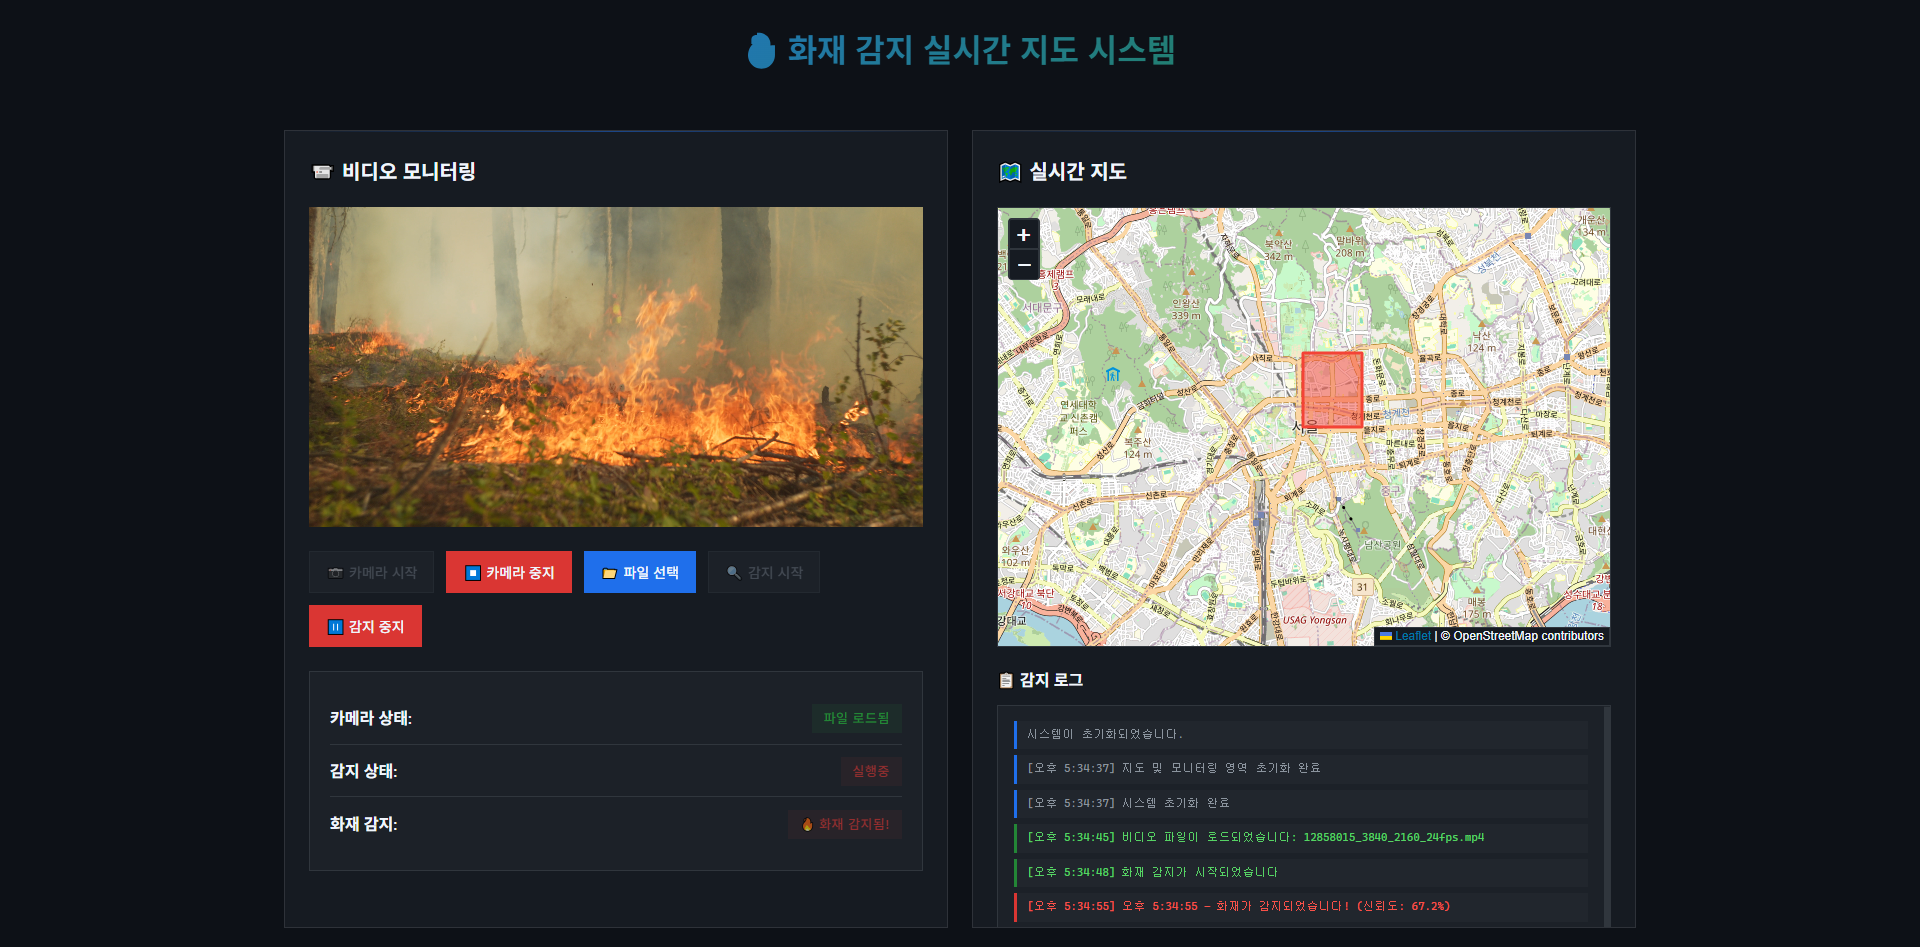
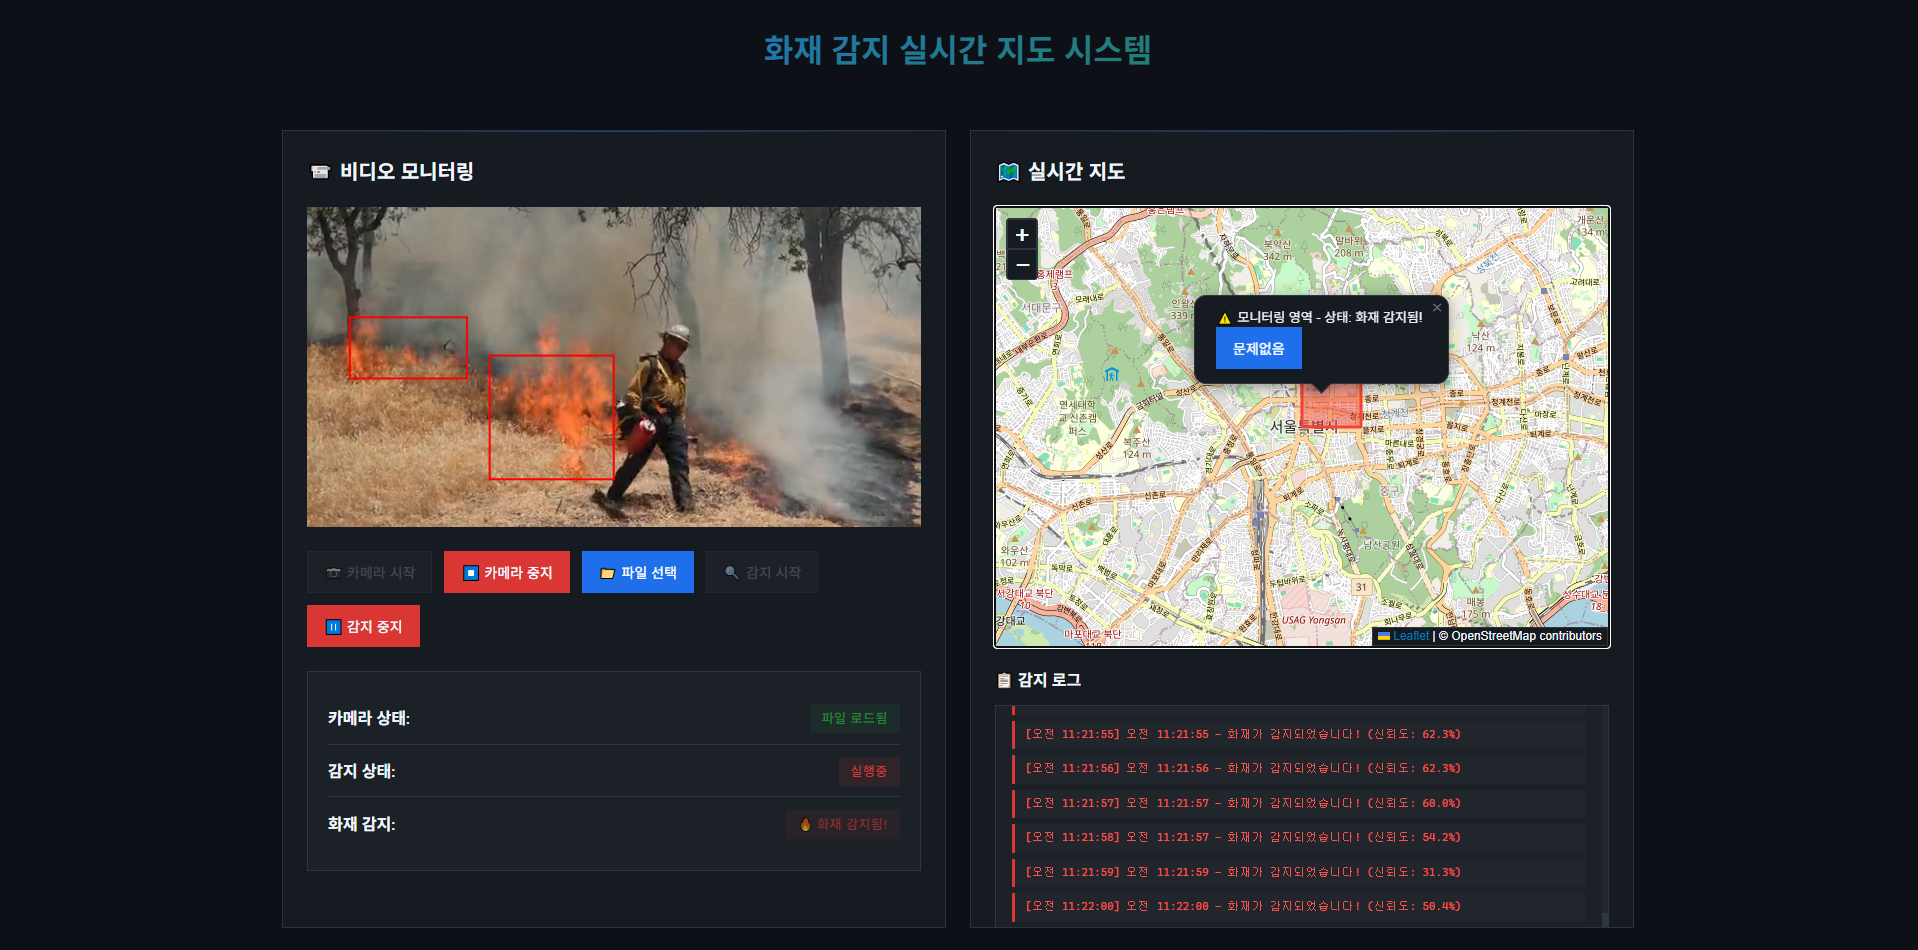
test restapi structure & README 작성

diff --git a/app/templates/index.html b/app/templates/index.html
@@ -388,13 +388,13 @@
 </head>
 <body>
     <div class="container">
-        <h1>🔥 화재 감지 실시간 지도 시스템</h1>
+        <h1>화재 감지 실시간 지도 시스템</h1>
         
         <div class="video-section">
             <h2>📹 비디오 모니터링</h2>
             
-            <div class="video-container">
-                <video id="videoElement" autoplay muted style="display: none;"></video>
+            <div class="video-container" id="video-container">
+                <video id="videoElement" controls autoplay muted style="display: none;"></video>
                 <div id="videoPlaceholder" class="video-placeholder">
                     비디오 소스를 선택해주세요
                 </div>
@@ -449,7 +449,10 @@
                 this.detectionInterval = null;
                 this.canvas = null;
                 this.isDetecting = false;
-                this.apiEndpoint = 'http://localhost:8000/detection';
+                this.apiEndpoint = '/detection';
+
+                this.scaleX = null;
+                this.scaleY = null;
                 
                 this.initMap();
                 this.initEventListeners();
@@ -488,6 +491,24 @@
                 this.canvas = document.createElement('canvas');
                 this.canvas.width = 640;
                 this.canvas.height = 480;
+
+                this.drawCanvas = document.createElement('canvas');
+                this.drawCanvas.width = 640;
+                this.drawCanvas.height = 480;
+                this.drawCanvas.style = "position:absolute; top:0; left:0; pointer-events:none;";
+
+                
+                const container = document.getElementById("video-container")
+                container.appendChild(this.drawCanvas);
+
+                let videoElement = document.getElementById("videoElement");
+                if(videoElement.offsetWidth == 0) {
+                    videoElement = document.getElementById("videoPlaceholder")
+                }
+                this.scaleX = videoElement.offsetWidth / 640;
+                this.scaleY = videoElement.offsetHeight / 480;
+                console.log(this.scaleX, this.scaleY)
+
             }
 
             initEventListeners() {
@@ -567,7 +588,7 @@
                     // 3초마다 프레임 캡처 및 감지 요청
                     this.detectionInterval = setInterval(() => {
                         this.captureAndDetect();
-                    }, 3000);
+                    }, 1000);
                     
                     this.logMessage('화재 감지가 시작되었습니다', 'success');
                 }
@@ -577,10 +598,12 @@
                 if (this.isDetecting) {
                     this.isDetecting = false;
                     clearInterval(this.detectionInterval);
+
+
                     this.updateDetectionStatus('중지됨', 'normal');
                     this.updateFireStatus('정상', 'normal');
                     this.toggleDetectionButtons(true, false);
-                    this.resetMonitoringArea();
+                    // this.resetMonitoringArea(); // stopDetection을 한다고 해서 화재가 중지되지 않게한다. 
                     this.logMessage('화재 감지가 중지되었습니다', 'info');
                 }
             }
@@ -646,10 +669,27 @@
                     this.updateFireStatus('🔥 화재 감지됨!', 'alert');
                     this.updateMonitoringAreaToFire();
                     let max = 0;
+                    const ctx = this.drawCanvas.getContext('2d');
+                    ctx.clearRect(0, 0, this.drawCanvas.width, this.drawCanvas.height);
                     result.detections.forEach(res=>{
                         if (res.class_name == 'fire') {
                             max  = max < res.confidence ? res.confidence: max
                         }
+                        if (res.class_name !== 'fire') return;
+                        const bbox = res.bbox;
+                        const scaledX1 = bbox.x1 * this.scaleX;
+                        const scaledY1 = bbox.y1 * this.scaleY;
+                        const scaledWidth = bbox.width * this.scaleX;
+                        const scaledHeight = bbox.height * this.scaleY;
+
+                        const className = result.class_name;
+                        const confidence = result.confidence;
+
+                        // 바운딩 박스 그리기
+                        ctx.strokeStyle = 'red'; // 박스 테두리 색상
+                        ctx.lineWidth = 2;       // 박스 테두리 두께
+                        ctx.strokeRect(scaledX1, scaledY1, scaledWidth, scaledHeight);
+
                     })
 
                     this.logMessage(`${timestamp} - 화재가 감지되었습니다! (신뢰도: ${(max * 100).toFixed(1)}%)`, 'error');
@@ -661,6 +701,9 @@
                             icon: '🔥'
                         });
                     }
+
+
+
                 } else {
                     // this.updateFireStatus('정상', 'normal'); 정상은 없앰
                     this.resetMonitoringArea();
@@ -675,8 +718,30 @@
                         fillColor: '#f44336',
                         fillOpacity: 0.5
                     });
-                    this.monitoringArea.setPopupContent('⚠ 모니터링 영역 - 상태: 화재 감지됨!');
+                    const content =  document.createElement("div")
+
+                    const textElement = document.createElement("div")
+                    textElement.textContent = "⚠ 모니터링 영역 - 상태: 화재 감지됨!"
+
+                    const resetBtn = document.createElement("button")
+                    resetBtn.textContent = "문제없음";
+                    resetBtn.className = 'btn btn-secondary'
+                    resetBtn.onclick = ()=> {
+                        this.resetMonitoringArea();
+                        this.updateFireStatus('정상', 'normal');
+
+                        const timestamp = new Date().toLocaleTimeString();
+                        this.logMessage(`${timestamp} - 정상 상태 사용자가 확인했습니다`, 'success')
+                    }
+
+                    content.appendChild(textElement)
+                    content.appendChild(resetBtn)
+
+                    this.monitoringArea.setPopupContent(content);
                 }
+            }
+            hello(){
+                alert("HELLO");
             }
 
             resetMonitoringArea() {

diff --git a/app/app.py b/app/app.py
@@ -1,6 +1,7 @@
 import os
 import random
 import cv2
+from fastapi.staticfiles import StaticFiles
 import numpy as np
 import io
 import base64
@@ -23,6 +24,7 @@ app = FastAPI(
     version="1.0.0",
 )
 BASE_DIR = Path(__file__).resolve().parent
+app.mount("/static", StaticFiles(directory=f"{BASE_DIR}/static"), name="static")
 templates = Jinja2Templates(directory=str(BASE_DIR) +"/templates")
 
 try:
@@ -39,6 +41,14 @@ async def read_root(request: Request):
         "title" : "FastAPI AI 모델 분류 예제",
     }
     return templates.TemplateResponse("index.html", data)
+
+@app.get("/monitor",response_class=HTMLResponse, summary="Response Index Page")
+async def read_monitor(request: Request):
+    data = {
+        "request": request,
+        "title" : "FastAPI AI 모델 모니터링 POC",
+    }
+    return templates.TemplateResponse("monitor.html", data)
 
 @app.post("/detection",summary="YOLOv8 AI Fire Detection")
 async def detectionYOLOv8(file: UploadFile = File(...)):
@@ -162,4 +172,4 @@ async def detectionYOLOv8(file: UploadFile = File(...)):
 
 
 if __name__ == '__main__':
-    uvicorn.run(app, host="0.0.0.0", port=5000)
+    uvicorn.run(app, host="0.0.0.0", port=8000)

diff --git a/README.md b/README.md
@@ -14,7 +14,7 @@ YOLOv8을 사용해서 실시간(real-time)영상을 통해서 불과 연기를 
 
 오른쪽 이미지에서 볼 수 있듯이, YOLOv8 모델은 불꽃(`fire`)과 연기(`smoke`)를 정확히 구분하여 사각형 형태로 영역을 표시하고, 해당 객체의 클래스 이름과 신뢰도(%)를 함께 보여줍니다.
 
-## 데이터 
+## 
 [Kaggle-Smoke-Fire-Detection-YOLO](https://www.kaggle.com/datasets/sayedgamal99/smoke-fire-detection-yolo/data)
 
 ## 평가
@@ -27,4 +27,21 @@ YOLOv8을 사용해서 실시간(real-time)영상을 통해서 불과 연기를 
 
 ## 결과
 <image src='images/val_batch1_labels.jpg'>
+
+## 웹 서버 별 성능
+
+| 서버 구성 | TPS(sec) | response(avg, ms) |
+| :---------| -----------:| -----------:|
+| 단일 FastAPI | 38.3 |  4618 |
+
+
+### 테스트 환경
+Jmeter 
+- **Thread Group**: Thread=200, Ramp up period=10, Duration=60, 
+- **Image**: size=(800x544), ext=jpg
+
+### 단일 FastAPI + restApi
+
+> **결과** min=97, max=8294, average=4618, median=5131, std=1310.92, thorughtput=38.3/sec   
+> model 처리 시간은 평균적으로 10ms 걸림 
 
